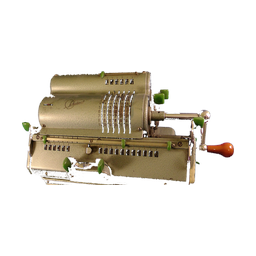
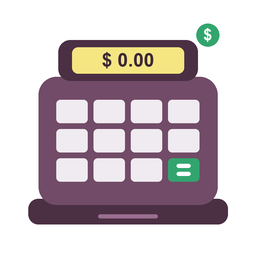
Icono dibujado: caja registradora flat
Reemplazo de la foto de la calculadora Odhner por una ilustración
flat de caja registradora generada con primitivas PIL: cuerpo
morado (Odoo enterprise), pantalla amarilla con "$ 0.00", grilla
de teclas con tecla "=" en verde, cajón con manija y moneda dorada
de detalle. Render a 4x con reducción LANCZOS para borde suave.

diff --git a/__manifest__.py b/__manifest__.py
@@ -1,6 +1,6 @@
 {
     'name': 'Caja — Sesiones con turnos rotativos',
-    'version': '19.0.2.0.4',
+    'version': '19.0.2.0.5',
     'category': 'Caja',
     'summary': 'Operación de cajas físicas con apertura/arqueo/cierre y '
                'transferencia automática a caja central. Multi-compañía, '
